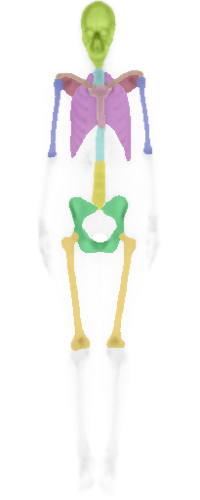
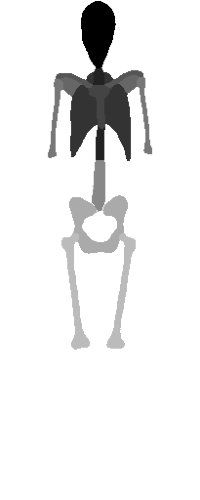
try to crop image

Changed region(s): [[0.24, 0.0, 0.75, 0.75], [0.18, 0.45, 0.24, 0.48]]

diff --git a/module/my_engine_modified_v2.py b/module/my_engine_modified_v2.py
@@ -61,19 +61,22 @@ def render_data(img_front, img_back):
 
     # ini warna
     cp = {
-        0 : [1.0       , 1.0       , 1.0       ],
-        1 : [0.6901961 , 0.9019608 , 0.05098039],
-        2 : [0.        , 0.5921569 , 0.85882354],
-        3 : [0.49411765, 0.9019608 , 0.8862745 ],
-        4 : [0.6509804 , 0.21568628, 0.654902  ],
-        5 : [0.9019608 , 0.6156863 , 0.7058824 ],
-        6 : [0.654902  , 0.43137255, 0.3019608 ],
-        7 : [0.47843137, 0.        , 0.09411765],
-        8 : [0.22352941, 0.25490198, 0.72156864],
-        9 : [0.9019608 , 0.85490197, 0.        ],
-        10 : [0.9019608 , 0.44705883, 0.13725491],
-        11 : [0.05098039, 0.7372549 , 0.24313726],
-        12 : [0.9019608 , 0.7137255 , 0.08627451]
+        0 : [255, 255, 255],
+        1 : [0, 0, 0],
+        2 : [17,17,17],
+        3 : [34,34,34],
+        4 : [51,51,51],
+        5 : [68,68,68],
+        6 : [85,85,85],
+        7 : [102,102,102],
+        8 : [119,119,119],
+        9 : [136,136,136],
+        10 : [153,153,153],
+        11 : [170,170,170],
+        12 : [187,187,187],
+        # 13 : [204,204,204],
+        # 14 : [221,221,221],
+        # 15 : [238,238,238],
     }
 
     # pewarnaan disini
@@ -104,9 +107,9 @@ def render_data(img_front, img_back):
     # depan
     # plt.subplot(2, n*2, (2*i)+1)
     # ax.imshow(X_valid[vl_idx[i]][0].permute(1, 2, 0))
-    ax.imshow(map_clr(y_predv[vl_idx[i]][0].argmax(axis=0).numpy()), alpha=0.5)
+    ax.imshow(map_clr(y_predv[vl_idx[i]][0].argmax(axis=0).numpy()), alpha=1)
 
-    plt.savefig('./static/img_front_result.png')
+    plt.savefig('./static/coba.png')
 
     # belakang
     # plt.subplot(2, n*2, (2*i)+2)

diff --git a/app.py b/app.py
@@ -2,7 +2,7 @@ from flask import Flask, render_template, request, redirect, url_for
 from PIL import Image
 
 import os, uuid, json
-import module.my_engine_modified as engine
+import module.my_engine_modified_v2 as engine
 import module.decode as decoder
 
 app = Flask(__name__)
